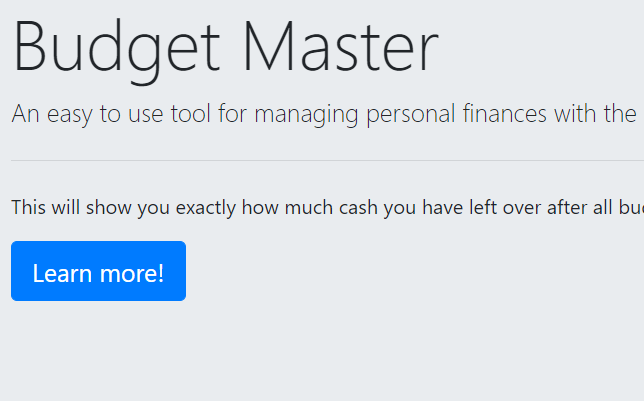
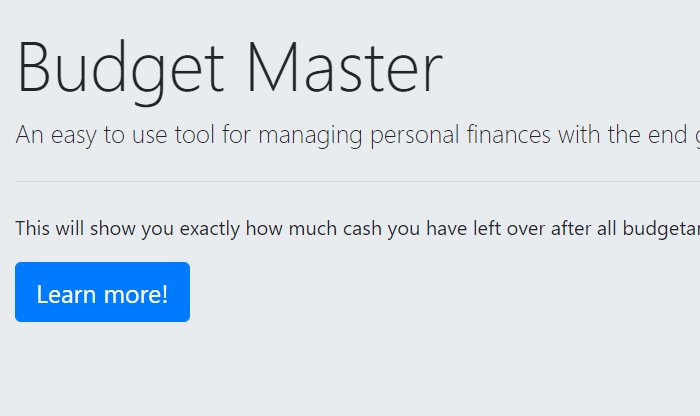
contact buttons added, background texture image added

Changed region(s): [[0.0, 0.0299, 1.0, 0.3591], [0.0, 0.4788, 1.0, 0.5985], [0.0, 0.5985, 0.3106, 0.7781]]

diff --git a/index.html b/index.html
@@ -43,6 +43,7 @@
         <h2>
             Bio
         </h2>
+        <br><br>
         <p>
             I'm a web developer drawing on a diverse background of experiences to power solutions in an ever changing technological landscape. From teaching social studies, guiding customers through the fascinating world of home fermentation, to operating and servicing production level machinery, I am able to approach problems with unique and verifiable solutions. Take a look around, check out some of my work, and drop me a line if I can be of help.
         </p>
@@ -54,10 +55,11 @@
                 </div>
     <br><br><br>
     <div class="container" id="projects">
-            <br><br><br>
+            <br><br>
         <h2>
             Projects
         </h2>
+        <br><br>
         <p>
             A collection of past and ongoing works.
         </p>
@@ -65,7 +67,7 @@
     </div>
         <section>
             <div class="container py-2">
-                <div class="card">
+                <div class="card rounded-0">
                     <div class="row ">
                         <div class="col-md-4">
                             <img src="assets/img/incremental.PNG" class="w-100">
@@ -83,7 +85,7 @@
                 </div>
             </div>
             <div class="container py-2">
-                <div class="card">
+                <div class="card rounded-0">
                     <div class="row ">
                         <div class="col-md-4">
                             <img src="assets/img/munchies.PNG" class="w-100">
@@ -101,7 +103,7 @@
                 </div>
             </div>
             <div class="container py-2">
-                <div class="card">
+                <div class="card rounded-0">
                     <div class="row ">
                         <div class="col-md-8 px-2">
                             <div class="card-block px-3">
@@ -119,7 +121,7 @@
                 </div>
             </div>
             <div class="container py-2">
-                <div class="card">
+                <div class="card rounded-0">
                     <div class="row ">
                         <div class="col-md-8 px-2">
                             <div class="card-block px-3">
@@ -136,7 +138,7 @@
                 </div>
             </div>
             <div class="container py-2">
-                <div class="card">
+                <div class="card rounded-0">
                     <div class="row ">
                         <div class="col-md-4">
                             <img src="assets/img/giphy.PNG" class="w-100">
@@ -154,7 +156,7 @@
                 </div>
             </div>
             <div class="container py-2">
-                <div class="card">
+                <div class="card rounded-0">
                     <div class="row ">
                         <div class="col-md-4">
                             <img src="assets/img/budget.PNG" class="w-100">
@@ -183,9 +185,28 @@
         <h2>
             Contact me
         </h2>
-        <p>
-            Links to contact information.
-        </p>
+        <br>
+        <p>If you like what you see, feel free to reach out!</p>
+        <br><br>
+        <div class="contactInfo">
+        <span>
+                <a href="https://www.linkedin.com/in/edford-phillips/">
+                    <i class="fab fa-linkedin"></i>
+                </a>
+            </span>
+                
+                <span>
+                <a href="https://github.com/ephillipsiii">
+                    <i class="fab fa-github-square"></i>
+                </a>
+            </span>
+                <span>
+                <a href="https://stackoverflow.com/users/9182578/edford-phillips">
+                    <i class="fab fa-stack-overflow"></i>
+                </a>
+            </span>
+        </div>
+        <br><br>
     </div>
 </div>
     
@@ -222,22 +243,24 @@
                 <div class="col-md-4 col-lg-4 text-center mx-auto my-4">
                     <h5 class="font-weight-bold text-uppercase mb-4">Get in Touch</h5>
 
-                    <!-- change to LinkedIn -->
-                    <a type="button" class="btn-floating btn-fb">
-                        <i class="fa fa-facebook"></i>
+                    <span>
+                    <a href="https://www.linkedin.com/in/edford-phillips/">
+                        <i class="fab fa-linkedin"></i>
                     </a>
-                    <!-- change to GitHub -->
-                    <a type="button" class="btn-floating btn-tw">
-                        <i class="fa fa-twitter"></i>
+                </span>
+                    
+                    <span>
+                    <a href="https://github.com/ephillipsiii">
+                        <i class="fab fa-github-square"></i>
                     </a>
-                    <!-- change to Gmail -->
-                    <a type="button" class="btn-floating btn-gplus">
-                        <i class="fa fa-google-plus"></i>
+                
+                </span>
+                    
+                    <span>
+                    <a href="https://stackoverflow.com/users/9182578/edford-phillips">
+                        <i class="fab fa-stack-overflow"></i>
                     </a>
-                    <!-- change to stackOverflow -->
-                    <a type="button" class="btn-floating btn-dribbble">
-                        <i class="fa fa-dribbble"></i>
-                    </a>
+                </span>
                 </div>
             </div>
             <div class="row">

diff --git a/assets/style/style.css b/assets/style/style.css
@@ -79,11 +79,48 @@ h2 {
 .portrait {
     display: block;
     width: 25%;
-    height: 60%;
+    height: 65%;
     margin-left: auto;
     margin-right: auto;
     border-radius: 50%;
     padding: 1px;
     border:1px solid #021a40;
+}
 
+.fa-linkedin {
+    font-size: 48px;
+    color: dodgerblue;
+    padding: 3%;
+    /* text-shadow: 1px 1px 5px #272634; */
+}
+
+.fa-github-square {
+    font-size: 48px;
+    color: Black;
+    padding: 3%;
+    /* text-shadow: 1px 1px 5px #272634; */
+}
+
+.fa-stack-overflow {
+    font-size: 48px;
+    color: orange;
+    padding: 3%;
+    /* text-shadow: 1px 1px 5px #272634; */
+}
+
+.contactInfo {
+    text-align: center;
+}
+
+body{
+    background-image: url("../img/crossword.png");
+}
+
+#contact p {
+    text-align: center;
+}
+
+.card {
+    border: 0;
+    
 }
